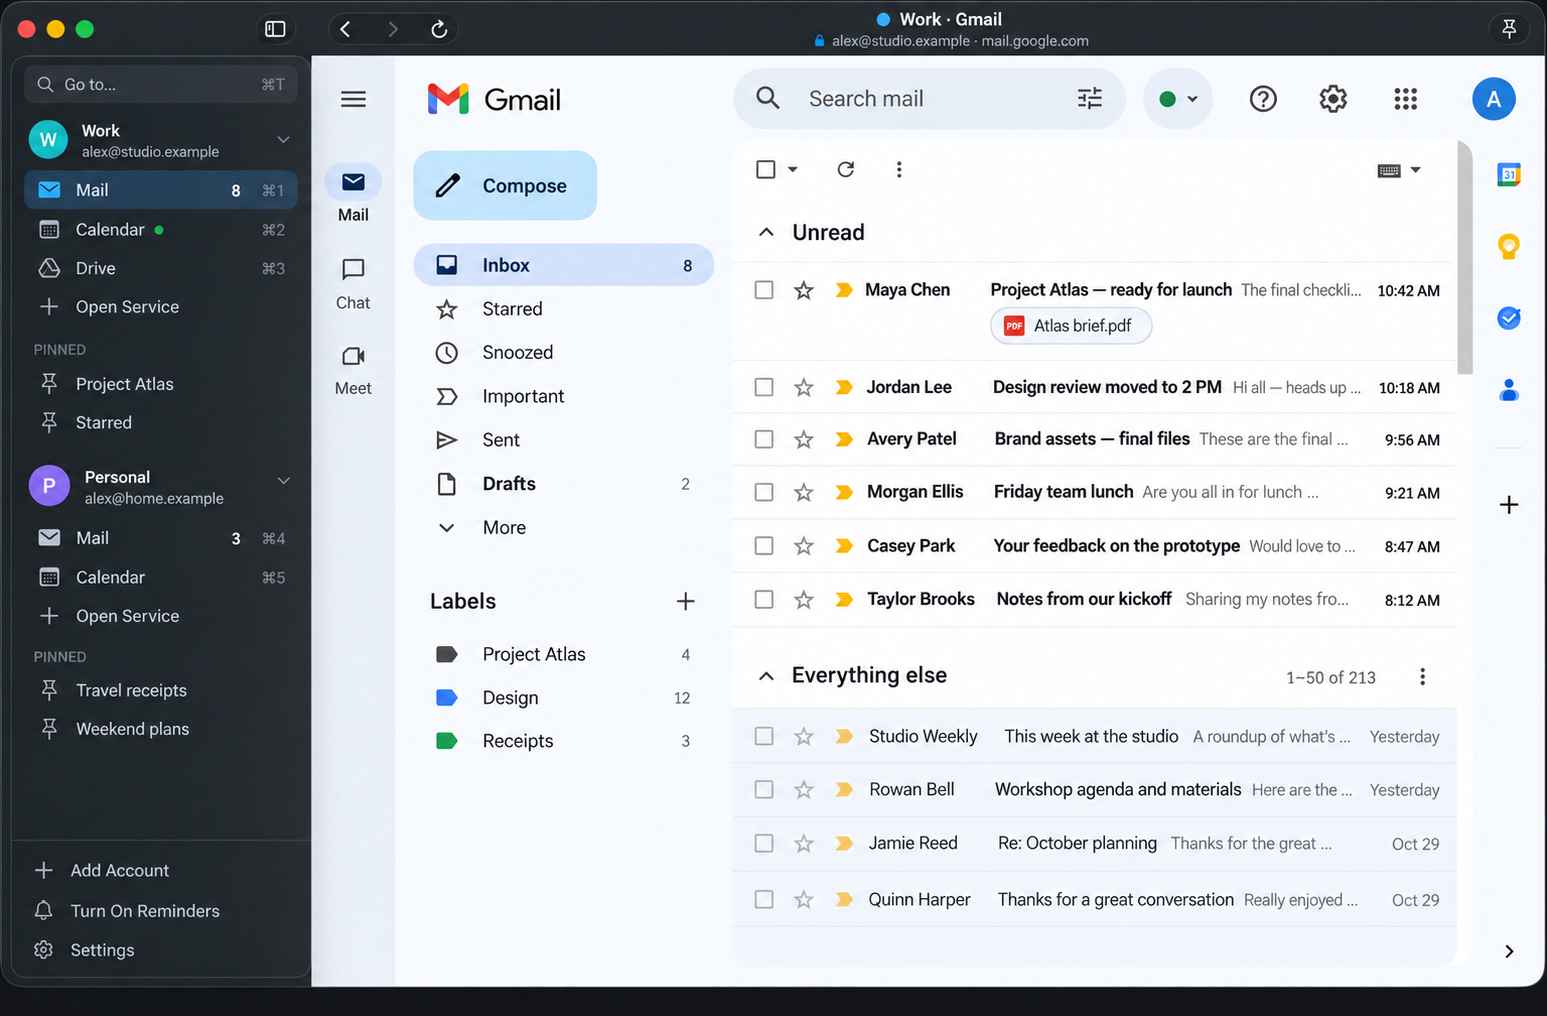
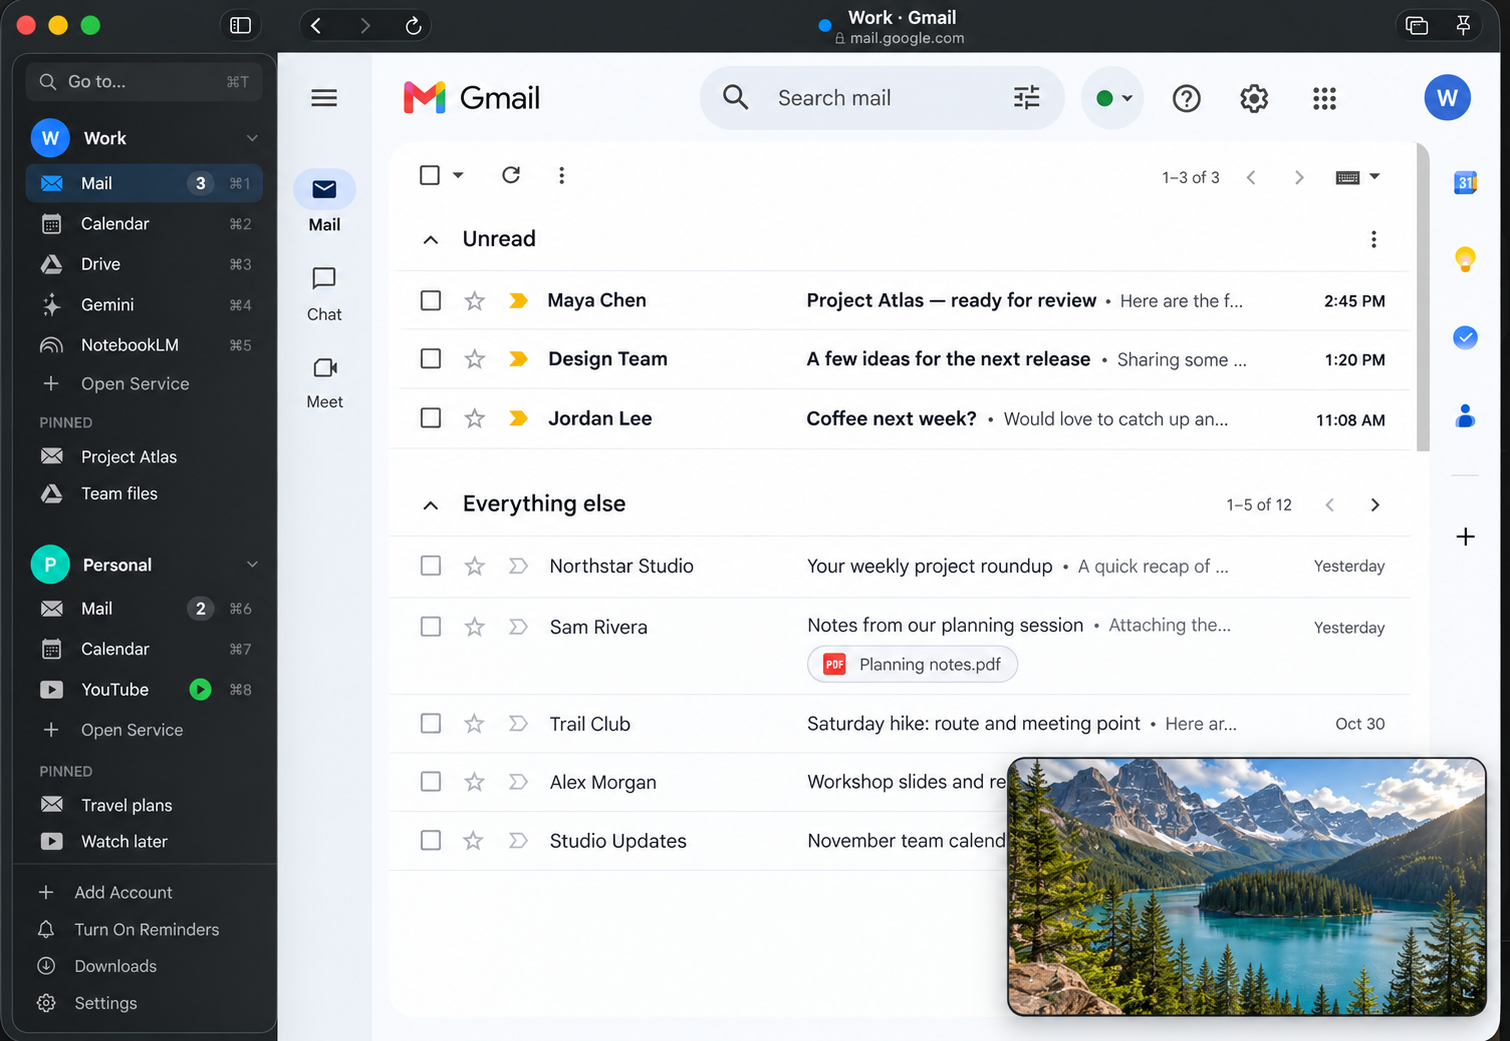
Updates screenshot

diff --git a/README.md b/README.md
@@ -2,7 +2,9 @@
 
 MailPort puts Gmail, Calendar, YouTube, and your other Google services in one Mac window, with every account a click away. Each account keeps its own sign-in, and pages stay loaded as you switch between them.
 
-![MailPort with Work and Personal accounts in the sidebar](docs/screenshot.png)
+![MailPort demo with Work and Personal accounts, Google services, and a floating YouTube player](docs/screenshot.png)
+
+*Illustrative demo with fictional accounts and messages.*
 
 MailPort is an independent preview, not affiliated with or endorsed by Google. It shows Google's own web pages, and Google may reject its embedded browser or ask for extra verification, so sign-in isn't guaranteed for every account.
 
